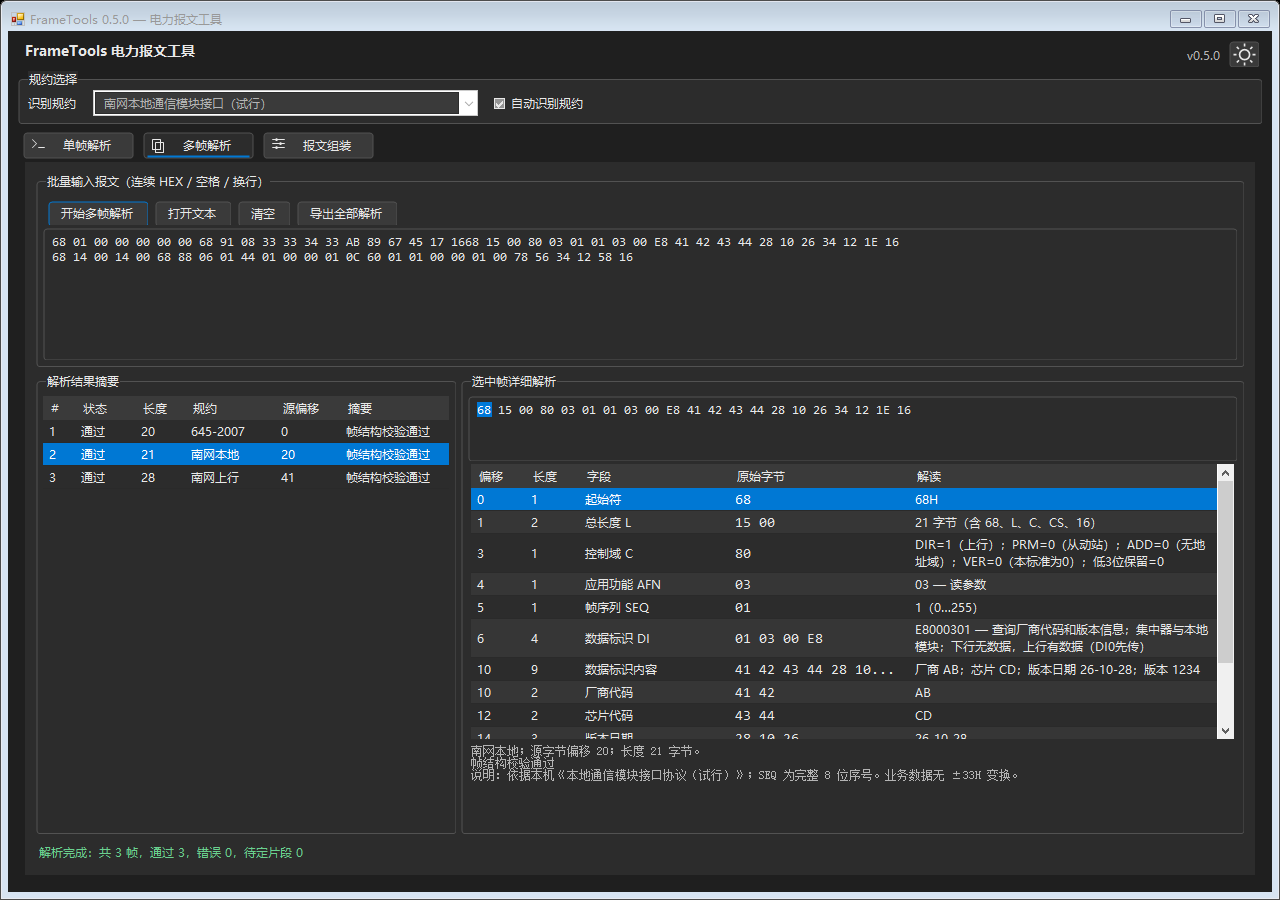
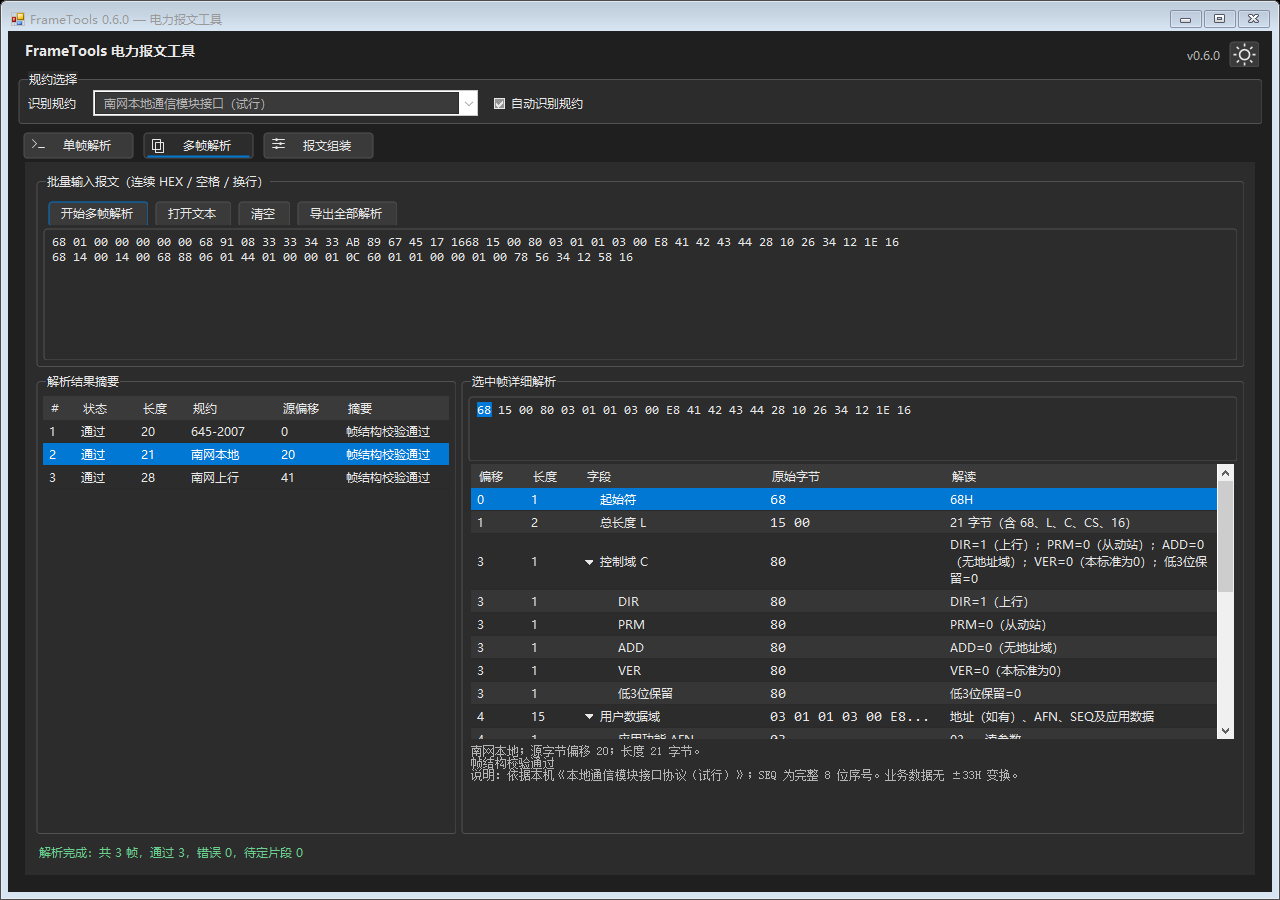
release: bump FrameTools to 0.6.0 and unify displayed versions

Changed region(s): [[0.5938, 0.5289, 0.9688, 0.84], [0.4375, 0.5289, 0.5312, 0.84], [0.5625, 0.4978, 0.625, 0.5911]]

diff --git a/src/FrameTools/MainForm.cs b/src/FrameTools/MainForm.cs
@@ -52,7 +52,7 @@ namespace FrameTools
         public MainForm()
         {
             WorkspaceStyle.IsDark = false;
-            Text = "FrameTools 0.5.0 — 电力报文工具";
+            Text = "FrameTools " + Program.Version + " — 电力报文工具";
             Font = new Font("Microsoft YaHei UI", 9F);
             AutoScaleMode = AutoScaleMode.Font;
             MinimumSize = new Size(1020, 740);
@@ -79,7 +79,7 @@ namespace FrameTools
             Panel themePanel = new Panel { Dock = DockStyle.Right, Width = 34 };
             themePanel.Controls.Add(themeButton);
             heading.Controls.Add(themePanel);
-            heading.Controls.Add(new Label { Text = "v0.5.0", Dock = DockStyle.Right, Width = 70, TextAlign = ContentAlignment.MiddleRight, Tag = "secondary" });
+            heading.Controls.Add(new Label { Name = "appVersion", Text = "v" + Program.Version, Dock = DockStyle.Right, Width = 70, TextAlign = ContentAlignment.MiddleRight, Tag = "secondary" });
             themePanel.SendToBack();
             shell.Controls.Add(heading, 0, 0);
             WorkspaceGroupBox protocolGroup = new WorkspaceGroupBox { Text = "规约选择", Dock = DockStyle.Fill, Padding = new Padding(7, 3, 7, 2), Margin = new Padding(0, 0, 0, 5) };
@@ -713,7 +713,7 @@ namespace FrameTools
                 if (dialog.ShowDialog(this) == DialogResult.OK)
                 {
                     StringBuilder report = new StringBuilder();
-                    report.AppendLine("FrameTools 0.5.0");
+                    report.AppendLine("FrameTools " + Program.Version);
                     report.AppendLine(automaticProtocol.Checked ? "自动识别规约" : "手动规约：" + protocol.Text);
                     report.AppendLine(status.Text);
                     report.AppendLine("整形报文流：");

diff --git a/tests/ProtocolTests.cs b/tests/ProtocolTests.cs
@@ -236,7 +236,11 @@ internal static class ProtocolTests
             System.Windows.Forms.Application.EnableVisualStyles();
             using (MainForm form = new MainForm())
             {
-                Check(form.Text.StartsWith("FrameTools 0.5.0"), "Window title");
+                Check(form.Text.StartsWith("FrameTools 0.6.0"), "Window title");
+                Check(((System.Windows.Forms.Label)form.Controls.Find("appVersion", true).Single()).Text == "v0.6.0", "Visible version label");
+                Check(typeof(MainForm).Assembly.GetName().Version.ToString() == "0.6.0.0", "Assembly version");
+                System.Diagnostics.FileVersionInfo version = System.Diagnostics.FileVersionInfo.GetVersionInfo(typeof(MainForm).Assembly.Location);
+                Check(version.FileVersion == "0.6.0.0" && version.ProductVersion == "0.6.0.0", "Executable file/product version");
                 Check(form.Controls.Count > 0, "Window contains no layout");
             }
         });

diff --git a/src/FrameTools/Program.cs b/src/FrameTools/Program.cs
@@ -4,13 +4,15 @@ using System.Windows.Forms;
 
 [assembly: AssemblyTitle("FrameTools")]
 [assembly: AssemblyDescription("DL/T 645 与南网本地、上行通信报文工具")]
-[assembly: AssemblyVersion("0.5.0.0")]
-[assembly: AssemblyFileVersion("0.5.0.0")]
+[assembly: AssemblyVersion(FrameTools.Program.Version + ".0")]
+[assembly: AssemblyFileVersion(FrameTools.Program.Version + ".0")]
 
 namespace FrameTools
 {
     internal static class Program
     {
+        internal const string Version = "0.6.0";
+
         [STAThread]
         private static void Main()
         {

diff --git a/src/FrameTools/BatchParserView.cs b/src/FrameTools/BatchParserView.cs
@@ -284,7 +284,7 @@ namespace FrameTools
                 {
                     return;
                 }
-                StringBuilder text = new StringBuilder("FrameTools 0.5.0 多帧解析" + Environment.NewLine);
+                StringBuilder text = new StringBuilder("FrameTools " + Program.Version + " 多帧解析" + Environment.NewLine);
                 text.AppendLine(status.Text);
                 text.AppendLine(parsed.FormattedText);
                 for (int i = 0; i < parsed.Parts.Count; i++)

diff --git a/docs/release-v0.6.0.md b/docs/release-v0.6.0.md
@@ -1,0 +1,15 @@
+# FrameTools 0.6.0
+
+发布日期：2026-10-30。Windows 10/11，需.NET Framework 4.8；下载EXE后直接运行，无需Python、Node.js或外部XML。
+
+- 三规约按用途组帧，共67个入口：645为7个、本地通信为42个、上行为18个。
+- 日期、时间、周期、模式、节点列表和任务类型可视化填写，支持按名称检索上行数据项；保留原始HEX入口。
+- 内嵌南网本地及上行XML，按AFN和方向选择明确的字段布局；完整原文资料保持本机保存。
+- 修复任务模式切换可能将非法类型单元格误转成有效参数的问题。
+- 窗口标题、右上角、导出报告和EXE版本统一为0.6.0（文件/程序集为0.6.0.0）。
+
+上行设置生成待加密和PW/MAC认证的参数明文；本版未接入认证模块或设备收发，不代表完成真实设备联调。
+
+构建验证及已知边界见 [验证记录](verification.md)，用途清单及截图见 [使用说明](purpose-composer.md)。
+
+Git源码使用 `v0.6.0` 标签定位；本机同时保留 `artifacts/FrameTools.exe` 和便于区分版本的 `artifacts/FrameTools-v0.6.0.exe`。

diff --git a/README.md b/README.md
@@ -1,10 +1,10 @@
 # FrameTools 电力报文工具
 
-Windows 离线桌面工具，用于 DL/T 645-2007、南网本地通信模块接口和南网上行通信规约的报文解析及组装。当前本机构建在 **0.5.0** 基础上加入规约XML字典和三规约按用途可视化组帧。
+Windows 离线桌面工具，用于 DL/T 645-2007、南网本地通信模块接口和南网上行通信规约的报文解析及组装。当前版本为 **0.6.0**，包含规约XML字典和三规约按用途可视化组帧，详见 [版本说明](docs/release-v0.6.0.md)。
 
 ## 运行
 
-构建产物：`artifacts/FrameTools.exe`。双击运行，无需 Python、Node.js 或网络连接。
+构建产物：`artifacts/FrameTools.exe`；本次发布副本另存为 `artifacts/FrameTools-v0.6.0.exe`。双击运行，无需 Python、Node.js 或网络连接。Git源码版本由 `v0.6.0` 标签定位。
 
 - 目标环境：安装了 **.NET Framework 4.8** 的 Windows 10 / 11。
 - EXE 为 AnyCPU 托管程序，不包含 .NET Framework 运行时。

diff --git a/docs/verification.md b/docs/verification.md
@@ -1,6 +1,14 @@
-# 0.5.0 验证记录
+# 0.6.0 验证记录
 
-日期：2026-10-28。检查范围为当前本机 Windows 环境和本项目构建产物。
+日期：2026-10-30。检查范围为当前本机 Windows 环境和本项目构建产物，以下保留各历史版本的验证记录。
+
+## 0.6.0 版本标识与构建
+
+窗口标题、右上角版本和两种解析报告使用 `Program.Version`；程序集版本、文件版本及产品版本为0.6.0.0，应用清单同步为0.6.0.0。构造测试同时断言界面版本和最终EXE的版本资源，避免界面与程序文件版本不一致。
+
+运行 `.\Build.ps1 -Test` 后更新 `artifacts/FrameTools.exe`，发布副本使用 `artifacts/FrameTools-v0.6.0.exe`。旧版本记录保留，不改写历史测试结论。
+
+结果为192项通过、0项失败，项目Release构建通过。两个EXE的文件版本与产品版本均为0.6.0.0；用途、解析及原始HEX的当前文档截图已从该构建重新生成。
 
 ## 2026-10-30 Code Review及发布检查
 

diff --git a/docs/design.md b/docs/design.md
@@ -1,6 +1,6 @@
 # 电力报文工具功能与技术设计
 
-版本：0.5.0。日期：2026-10-28。
+版本：0.6.0。日期：2026-10-30。
 
 ## 目标与首版范围
 
@@ -17,6 +17,8 @@
 0.4.1 默认以浅色打开，单帧页移除独立整形框，字段定位改为选中原始输入中的对应字节。各页多行编辑框只在内容溢出时显示滚动条。
 
 0.5.0 增加自动识别规约回显与常用业务解码。回显跟随当前帧，并与手动 / 组帧参数隔离；“解读”列增加控制位、DI 名称、数值单位及模块状态，保留未收录或布局不明确的原始数据。
+
+0.6.0 增加内嵌规约XML字典和三规约67个按用途组帧入口，提供日期、周期、模式及类型表格等输入，保留原始HEX模式。上行设置明确输出待安全封装的参数明文。界面和导出报告从程序集使用的同一版本常量生成版本号。
 
 ## 标准基线
 

diff --git a/docs/decoding.md b/docs/decoding.md
@@ -1,6 +1,8 @@
-# 0.5.0 字段解码范围
+# 0.6.0 字段解码范围
 
 依据本机 [标准清单](../specifications/README.md)，不把参考项目的其他规约或数据字典当作本项目的标准。业务解释显示在“解读”列及展开字段中，原始字节和偏移保持不变。
+
+0.6.0在既有分支之外接入XML明确布局，详见 [规约XML与业务解码](protocol-xml.md)。按用途组帧的支持范围见 [用途清单](purpose-composer.md)，不等同于所有生成报文的内容均已支持语义解码。
 
 ## 规约回显
 
